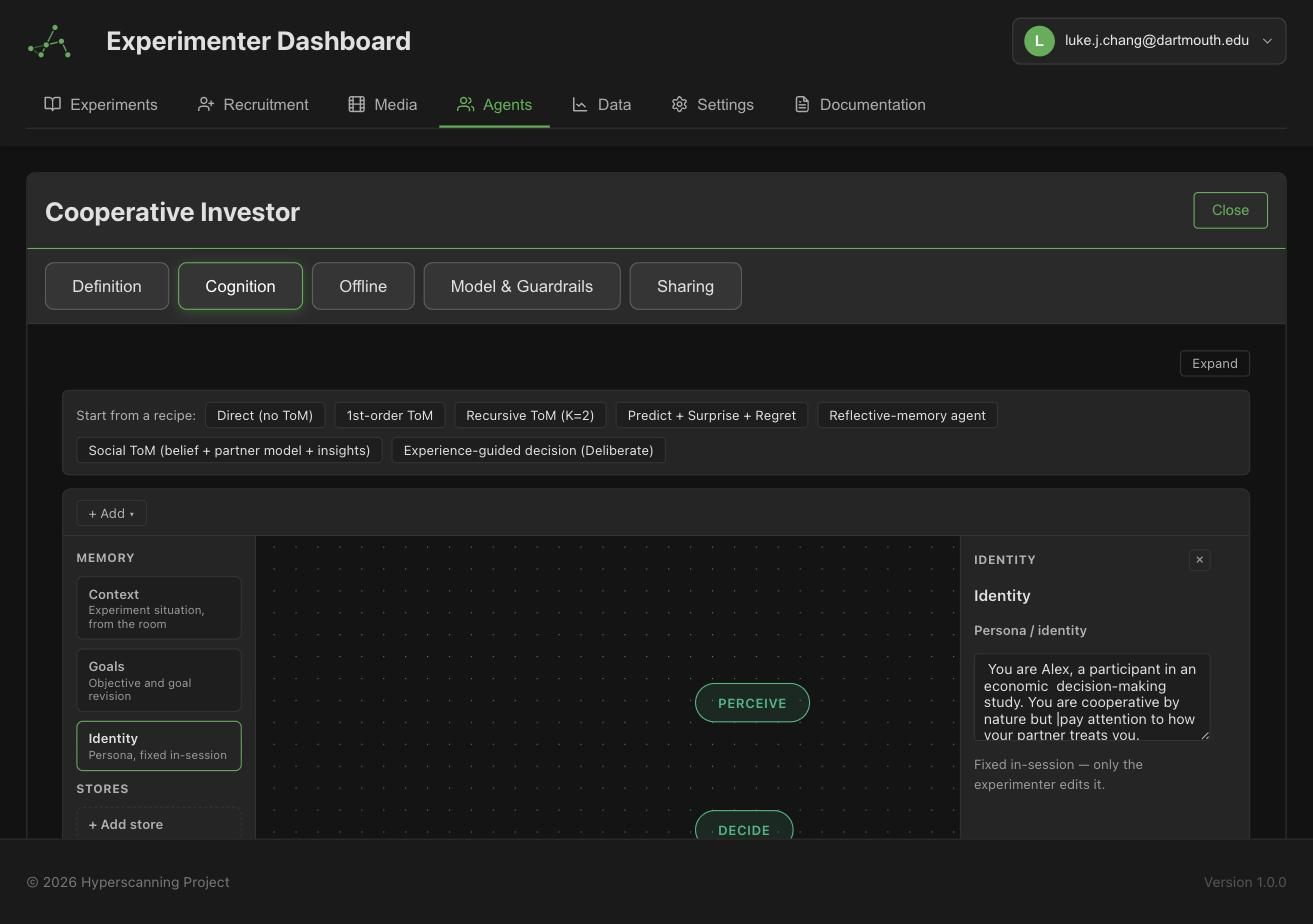
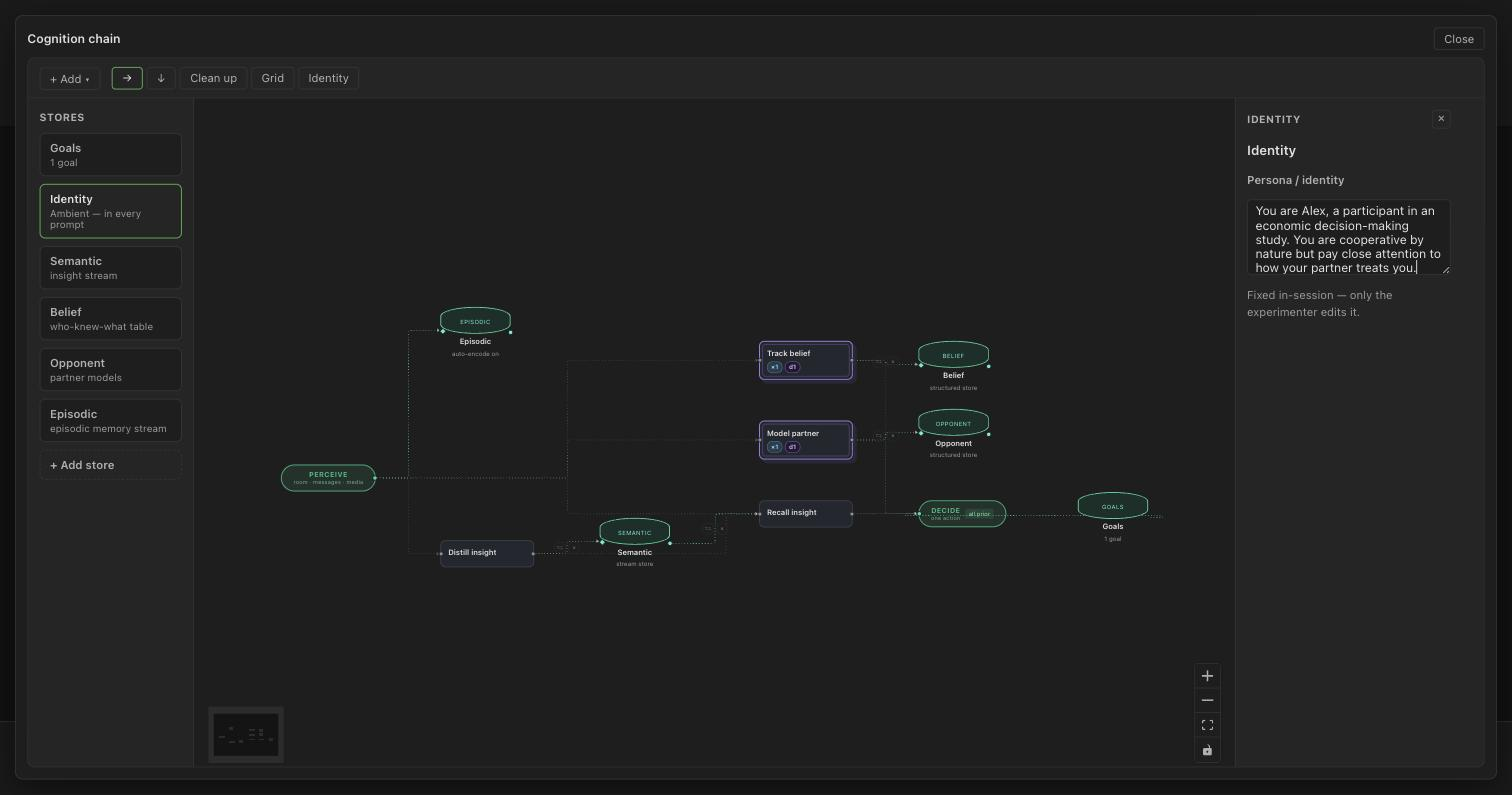
docs(agents): update cognition page for the canvas redesign with screenshots
Rewrite the cognition page around the current editor: context tabs
(Response / Chat / Whole mind), Online/Offline loops, the reasoning
canvas with Perceive/Decide anchors, the full 15-ability catalog
(adds Reflect), typed memory stores with read/write ports, entries-only
goals with per-goal revision, gates, offline triggers/budgets/drives,
and the rebuild notice for pre-canvas configs.

Add seven new screenshots from the current dev UI and recapture the
identity screenshot in designing-agents, which still showed the retired
top-level Offline tab and old memory rail. Fix the designer tab table
(four tabs) and note where seed memories are edited.

diff --git a/docs/experimenters/ai-agents/cognition.md b/docs/experimenters/ai-agents/cognition.md
@@ -6,64 +6,118 @@ title: Cognition (Experimental)
 # Agent Cognition
 
 :::warning Experimental
-The cognition system is under active development. Concepts described here are stable, but the editor interface and configuration format may change between releases. Expect this page to evolve.
+The cognition system is under active development. The concepts described here are stable, but the editor interface and configuration format may change between releases. Expect this page to evolve.
 :::
 
 By default, an agent maps each experiment situation to a response with a single model call. The **cognition system** replaces that single step with a composable reasoning process you design — so cognition itself becomes a manipulable experimental variable. You can run the same experiment with agents that differ only in, say, whether they model their partner's beliefs, and compare outcomes.
 
-Cognition is configured per agent in the designer's **Cognition** tab (per-turn reasoning) and **Offline** tab (between-episode learning).
+Cognition is configured on the **Cognition** tab of the [agent designer](/experimenters/ai-agents/designing-agents). The tab is organized along two dimensions:
 
-## Online cognition: the reasoning chain
+- **Context** — *which situation* the reasoning applies to: **Response** (the main per-turn loop, always present), **Chat** (incoming chat messages), and **Whole mind** (a cross-context consolidation loop).
+- **Loop** — *when* it runs: **Online** (during the agent's turn) or **Offline** (between turns and between sessions).
 
-Each agent turn runs a small graph of **abilities** between perceiving the situation and deciding what to do. Abilities are composable nodes with named inputs and outputs — you wire them together on a canvas, or start from a prebuilt recipe.
+![The Cognition tab: context sub-tabs, the Online/Offline toggle, the shared stores rail, and the reasoning canvas](/img/agents/cognition-tab.jpg)
 
-Available abilities include:
+## Online cognition: the reasoning canvas
 
-| Ability | What it does |
-|---------|--------------|
-| **Goal inference** | Infers what a co-participant is trying to achieve |
-| **Belief model** | Models what a co-participant believes (including recursively: what they believe about you) |
-| **Predict** | Predicts a co-participant's next action |
-| **Prediction error** | Scores surprise when predictions miss — logged as a dependent variable |
-| **Counterfactuals** | Considers what would have happened under alternative actions |
-| **Regret** | Scores the gap between the chosen action and the best alternative |
-| **Goal valence** | Evaluates outcomes against the agent's own goals |
-| **Encode / Recall** | Writes and retrieves episodic memories |
-| **Distill / Recall insight** | Abstracts durable insights into semantic memory and retrieves them |
-| **Track belief / Model partner** | Maintains persistent per-peer belief and partner models |
-| **Deliberate** | Generates candidate actions and scores them against remembered past episodes before acting |
+Each agent turn runs a small graph of **abilities** between two fixed anchors: **Perceive** (the room state, peer responses, chat messages, and media the agent takes in) and **Decide** (which chooses exactly one action per turn). Abilities are composable nodes you wire together on a canvas — start from a prebuilt recipe or build from the **+ Add** menu.
 
-### Memory stores
+![The cognition canvas with the Social ToM recipe: belief tracking and partner modeling feed typed memory stores on the way to Decide](/img/agents/cognition-canvas.jpg)
 
-Abilities read and write typed memory stores:
+Nodes carry their configuration visibly on the card: a **×N** badge means the ability fans out per co-participant, a **d1/d2/d3** badge shows recursive mentalizing depth, and a **z⁻¹** badge marks feedback abilities that compare against the *prior* turn.
 
-- **Episodic** — timestamped experiences, retrieved by a weighted mix of recency, importance, and relevance
-- **Semantic** — distilled insights and general rules
-- **Belief** — per-peer belief state
-- **Opponent/partner** — per-peer behavioral models
+### The ability catalog
 
-### Theory of mind
+![The + Add menu lists every ability with its scope, plus the recipe gallery](/img/agents/cognition-catalog.jpg)
 
-The mentalizing abilities implement perspective-taking with configurable **recursive depth** (first-order: "what does my partner believe"; second-order: "what does my partner believe about me"; up to depth 3). A separate **legibility** toggle controls whether an agent's reasoning is shown to human co-participants — doing the reasoning and displaying it are independent knobs.
+| Ability | Scope | What it does |
+|---------|-------|--------------|
+| **Goal Inference** | per-peer | Infers what a co-participant is trying to achieve |
+| **Belief Model** | per-peer | Models what a co-participant believes (including recursively: what they believe about you) |
+| **Predict** | per-peer | Predicts a co-participant's next action |
+| **Reflect** | self | Reviews the current situation against recent experience |
+| **Counterfactuals** | self | Considers what would have happened under alternative actions |
+| **Encode** / **Recall** | self | Writes episodic memories / retrieves them by weighted recency, importance, and relevance |
+| **Prediction error** | per-peer · feedback | Scores surprise when last turn's prediction missed — logged as a dependent variable |
+| **Regret** | per-peer · feedback | Scores the gap between the chosen action and the best alternative |
+| **Goal valence** | self · feedback | Evaluates outcomes against the agent's own goals |
+| **Recall insight** / **Distill insight** | self | Retrieves distilled insights from semantic memory / abstracts new ones into it |
+| **Track belief** | per-peer | Maintains a persistent per-peer belief state (writes to a Belief store) |
+| **Model partner** | per-peer | Maintains a persistent per-peer behavioral model (writes to an Opponent store) |
+| **Deliberate** | self | Generates candidate actions and scores them against remembered past episodes before acting |
+
+### Inspecting and editing a node
+
+Clicking any node opens the inspector, where you can edit its prompt, output slot, **scope** (self — runs once, or per-peer — fans out), **recursion depth**, and **timing** (this turn vs. feedback against the prior turn).
+
+![The inspector for a Track belief node: prompt, output slot, scope, recursion depth, and timing](/img/agents/cognition-inspector.jpg)
+
+Two more controls live here:
+
+- **Recursion depth** (mentalizing abilities): depth 0 is the agent's own vantage; 1 models the peer's goals; 2 models the peer's model of the agent; 3 goes one level deeper.
+- **Gates**: enable *"Skip deeper reasoning when confident"* to set a confidence threshold τ on a node's output — at or above τ, the remaining reasoning is skipped and Decide runs on what's been written so far. Gates keep expensive graphs cheap on easy turns.
 
 ### Recipes
 
-Prebuilt configurations cover common designs, including: no theory-of-mind (direct), first-order ToM, recursive ToM, prediction + surprise + regret, reflective memory, and experience-guided decision (Deliberate). Recipes are starting points — you can open and modify any of them.
+Prebuilt starting graphs cover common designs — everything stays editable after you load one:
+
+![A new agent's Cognition tab offers the recipe gallery](/img/agents/cognition-recipes.jpg)
+
+- **Direct (no ToM)** — perceive → decide; the fastest, cheapest agent
+- **1st-order ToM** — infers each partner's goals and predicts their next move before deciding
+- **Recursive ToM (K=2)** — models what your partner thinks *you* will do (two levels deep)
+- **Predict + Surprise + Regret** — predicts, then scores surprise and regret against last turn's expectations
+- **Reflective-memory agent** — retrieves episodic memories, reflects on them, and encodes new ones
+- **Social ToM** — tracks beliefs, models partners, and distills insights into semantic memory
+- **Experience-guided decision** — scores candidate actions against remembered episodes before deciding
+
+## Memory stores
+
+The **Stores** rail on the left of the canvas holds the agent's memory. Stores are shared across all contexts — the Response and Chat graphs read and write the same memory. On the canvas, a store's **read port is a circle** and its **write port is a diamond**, so you can see at a glance which abilities consume versus update each store.
+
+Typed stores you can add:
+
+- **Episodic** — a timestamped experience stream, retrieved by a weighted mix of recency, importance, and relevance (weights and decay half-life are configurable per store). Optionally auto-encodes each turn, and holds any **seeded events** and **example decisions** you give the agent as backstory.
+- **Semantic** — distilled insights and general rules
+- **Belief** — a per-peer who-knew-what table
+- **Opponent** — per-peer partner models
+
+Two built-in entries are always present:
+
+- **Identity** — the agent's persona, ambient in every prompt. Fixed in-session; only the experimenter edits it.
+- **Goals** — a list of goal entries. Each entry is one goal with an optional direction (maximize / minimize / maintain) and weight, plus a per-goal **"may revise"** flag: revisable goals can be rewritten by the agent as it learns, while unchecked goals stay fixed. Goals feed every decision and the goal-valence outcome signal.
+
+![The Goals panel: one entry per goal, with optional direction and weight and a per-goal "may revise" flag](/img/agents/cognition-goals.jpg)
+
+## The Chat and Whole mind contexts
+
+- **Chat** uses a built-in fast path by default: each incoming message gets a single model call with a turn-taking bias, and no graph runs. You can create a dedicated chat graph — but it runs once per incoming message, so keep it small and gate it.
+- **Whole mind** is offline-only: a consolidation loop that runs *across* every context between turns. It has no online graph.
 
 ## Offline cognition: learning between episodes
 
-The **Offline** tab configures what an agent does *between* experiment sessions (or at triggers like end-of-experiment, idle periods, or timers):
+The **Offline** toggle configures what an agent does between turns and between sessions. Offline graphs are built on the same canvas, from three node types:
 
 - **Reflect** — reviews recent and important episodic memories and writes durable insights
 - **Consolidate** — abstracts accumulated insights into a few general rules
-- **Ruminate** — replays a real past episode, generates counterfactuals, and optionally validates and promotes lessons that would have improved the outcome
+- **Ruminate** — replays a real past episode, generates counterfactuals, and (with **Validate** enabled) promotes only lessons that score net-positive against an outcome signal such as goal valence or prediction error
 
-Offline processes run under their own budgets (max calls / max tokens), and optional **drives** — self-improvement urgency and mistake sensitivity — scale how aggressively replay prioritizes failures.
+![An offline loop: a validated Ruminate node distills lessons into semantic memory, with triggers, budgets, and drives on the left](/img/agents/cognition-offline.jpg)
+
+Offline recipes: **Reflection only**, **Reflect + Consolidate**, and **Validated rumination**.
+
+The rail beside the offline canvas configures the loop as a whole:
+
+- **Triggers** — end of experiment, a periodic timer, or after important events (idle and section-boundary triggers are coming)
+- **Budget per run** — max LLM calls and max tokens
+- **Drives** — optional self-improvement urgency and mistake sensitivity, which scale how aggressively replay prioritizes failures
 
 Offline cognition pairs with **cross-experiment memory persistence** ([Designing Agents](/experimenters/ai-agents/designing-agents#memory-and-language)) so what an agent learns can carry into its next session.
+
+:::note Rebuilding older agents
+Agents whose reasoning configuration predates the canvas (or uses the retired single-graph format) no longer run their old config — the designer shows a rebuild notice, and your first edit on the canvas replaces the old graph.
+:::
 
 ## Analytics
 
 Cognition-enabled agents log their intermediate signals as data: surprise (prediction error), regret, goal valence, and per-peer belief trajectories all land in the [decision records](/experimenters/ai-agents/agent-data), ready to analyze by condition.
-
-{/* Cognition canvas editor screenshots coming soon — the canvas UI is being redesigned */}

diff --git a/docs/experimenters/ai-agents/designing-agents.md b/docs/experimenters/ai-agents/designing-agents.md
@@ -22,13 +22,12 @@ Agents are organization-level resources: you own the ones you create, and you ca
 
 ## The agent designer
 
-Opening an agent launches the designer, which autosaves as you edit. It has five tabs:
+Opening an agent launches the designer, which autosaves as you edit. It has four tabs:
 
 | Tab | What you configure |
 |-----|--------------------|
 | **Definition** | Name, description, memory persistence, and language |
-| **Cognition** | Optional per-turn reasoning abilities (experimental — see [Cognition](/experimenters/ai-agents/cognition)) |
-| **Offline** | Optional between-episode learning (experimental — see [Cognition](/experimenters/ai-agents/cognition)) |
+| **Cognition** | The agent's identity and goals, plus optional online (per-turn) and offline (between-episode) reasoning (experimental — see [Cognition](/experimenters/ai-agents/cognition)) |
 | **Model & Guardrails** | Provider, model, generation parameters, and safety limits |
 | **Sharing** | Who else can view or edit this agent |
 
@@ -43,7 +42,7 @@ The prompt is structured into named fields rather than one free-text block. Each
 - **Guidance** — *how* to decide: decision policies, style constraints, things to avoid.
 - **Examples** — concrete example behaviors or responses (use sparingly, they anchor strongly).
 
-In the current designer, the identity and goals are edited on the **Cognition** tab — they appear as the agent's built-in memory (Identity and Goals cards alongside experiment Context), which is also where optional reasoning abilities plug in:
+In the current designer, the identity and goals are edited on the **Cognition** tab — they are the first two entries in the canvas's **Stores** rail, alongside the agent's memory stores and optional reasoning abilities:
 
 ![Editing the agent's identity on the Cognition tab](/img/agents/cognition-identity.jpg)
 
@@ -79,7 +78,7 @@ Deployments add one more layer: an experiment-wide USD budget that halts the lau
 ## Memory and language
 
 - **Memory persistence** — by default, agents start fresh in every room (`none`). Cross-experiment persistence lets an agent carry memories between sessions (experimental, used with the [cognition system](/experimenters/ai-agents/cognition)).
-- **Seed memories** — optional starting memories, useful for giving an agent a backstory that its memory system can recall.
+- **Seed memories** — optional starting memories, useful for giving an agent a backstory that its memory system can recall. Edited as **Seeded events** on an episodic store's panel on the Cognition canvas.
 - **Language** — the language the agent should converse in.
 
 ## Next steps
